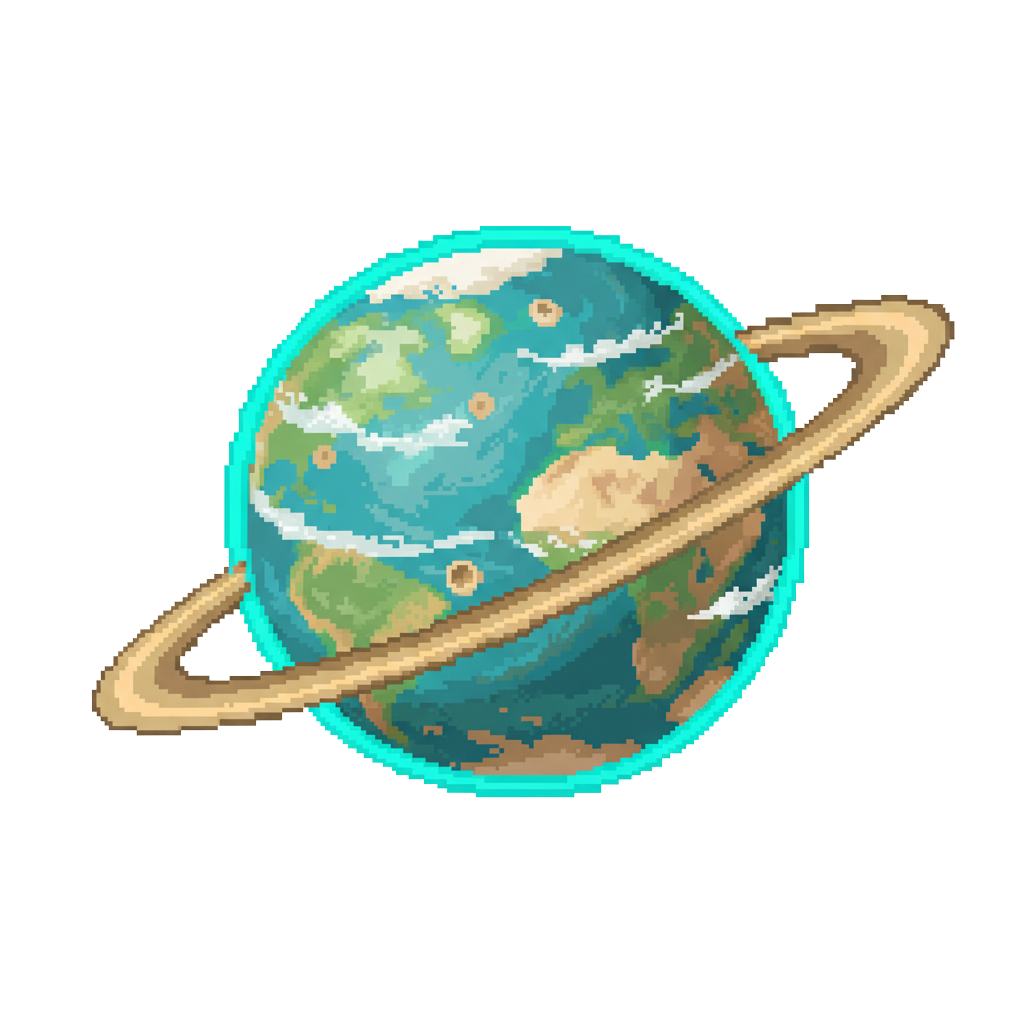
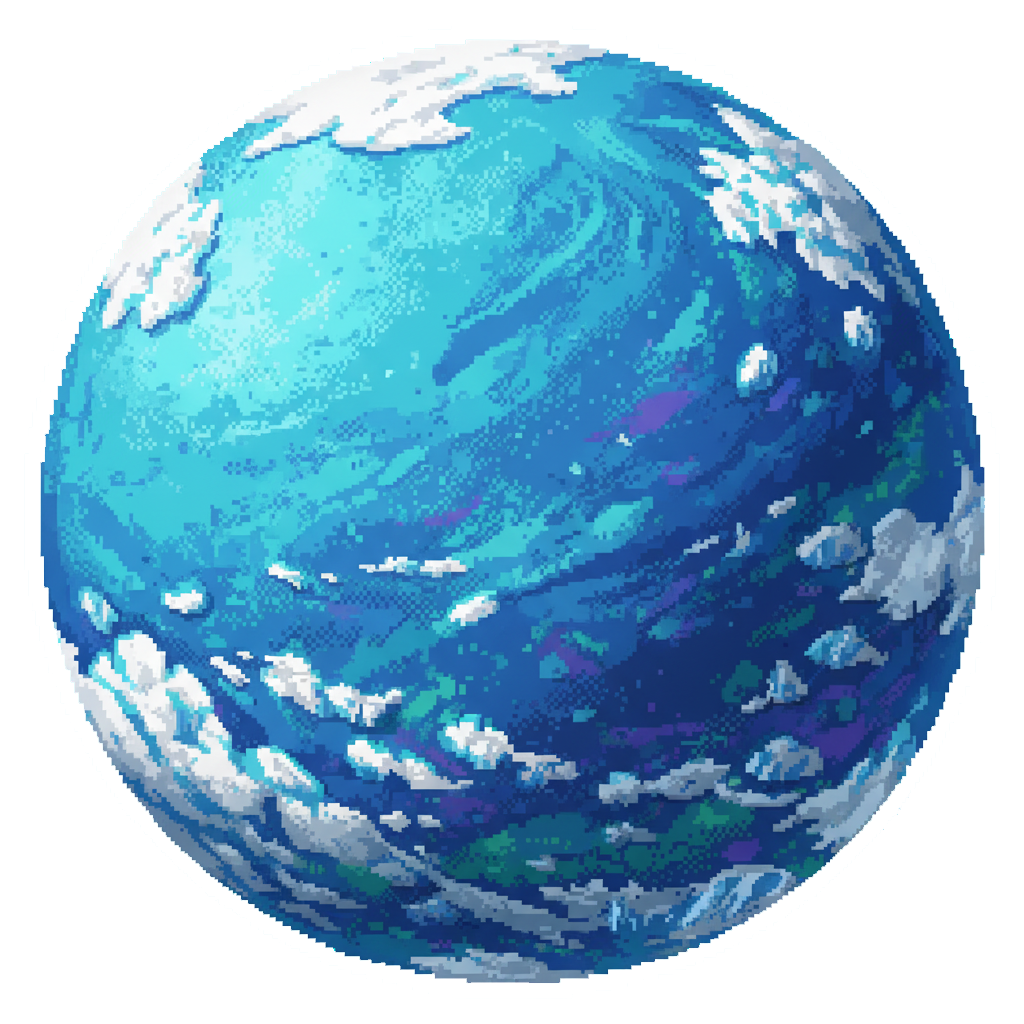
Ajustes

diff --git a/game/render/renderer.py b/game/render/renderer.py
@@ -4,7 +4,8 @@ from typing import TypedDict, Optional, TYPE_CHECKING
 from pathlib import Path
 from ..core import colors
 from ..core.config import Config
-from ..core.assets import get_font
+from ..core.assets import get_font, get_image # Added get_image
+from ..core.render_config import RenderConfig 
 
 if TYPE_CHECKING:
     from ..entities.ship import Ship
@@ -27,63 +28,88 @@ class CelestialBody(TypedDict):
 
 
 class CelestialManager:
-    def __init__(self, w: int, h: int, n: int = 2): # Changed n from 3 to 2
+    def __init__(self, w: int, h: int, n: int = RenderConfig.CELESTIAL_NUM_BODIES):
         self.w, self.h = w, h
         self.celestial_bodies: list[CelestialBody] = []
         self.image_files = self._load_image_files()
+        # Initialize the pool with 'n' celestial bodies
         for _ in range(n):
-            self.celestial_bodies.append(self._create_celestial_body())
+            self.celestial_bodies.append(self._create_and_initialize_celestial_body())
 
     def _load_image_files(self) -> list[Path]:
         image_dir = Path(__file__).resolve().parents[1] / "assets" / "images"
         return list(image_dir.glob("*.png"))
 
-    def _create_celestial_body(self, y_position: Optional[float] = None) -> CelestialBody:
-        image_path = random.choice(self.image_files)
-        original_image = pygame.image.load(image_path).convert_alpha()
+    def _generate_scaled_image(self, image_path: Path, scale: float) -> pygame.Surface:
+        """Loads, scales, and sets alpha for a celestial body image."""
+        original_image = get_image(image_path)
 
-        scale = random.uniform(0.1, 0.6) # Reduced max scale from 1.0 to 0.6
         width = int(original_image.get_width() * scale)
         height = int(original_image.get_height() * scale)
         image = pygame.transform.scale(original_image, (width, height))
 
         # Opacity based on size
-        alpha = int(50 + (scale - 0.1) * (255 - 50) / (0.6 - 0.1)) # Adjusted denominator for new max scale
+        alpha = int(RenderConfig.CELESTIAL_ALPHA_MIN + (scale - RenderConfig.CELESTIAL_SCALE_MIN) * (RenderConfig.CELESTIAL_ALPHA_MAX - RenderConfig.CELESTIAL_ALPHA_MIN) / (RenderConfig.CELESTIAL_SCALE_MAX - RenderConfig.CELESTIAL_SCALE_MIN))
         image.set_alpha(alpha)
+        return image
 
-        # Logic to ensure bodies don't spawn too close horizontally
+    def _get_random_x_position(self, width: int, current_body: Optional[CelestialBody] = None) -> float:
+        """Generates a random x-position ensuring no overlap with existing bodies."""
         new_x = 0
-        max_attempts = 10 # Prevent infinite loops
+        max_attempts = 10
         for _ in range(max_attempts):
-            new_x = random.uniform(0, self.w - width)
+            test_x = random.uniform(0, self.w - width)
             overlap = False
             for existing_body in self.celestial_bodies:
-                # Check for horizontal overlap, considering a minimum gap
-                min_gap = 50 # Minimum horizontal gap between bodies
-                if (new_x < existing_body["x"] + existing_body["image"].get_width() + min_gap and
-                    new_x + width + min_gap > existing_body["x"]):
+                if existing_body is current_body: # Don't check overlap with itself
+                    continue
+                min_gap = RenderConfig.CELESTIAL_MIN_GAP
+                if (test_x < existing_body["x"] + existing_body["image"].get_width() + min_gap and
+                    test_x + width + min_gap > existing_body["x"]):
                     overlap = True
                     break
             if not overlap:
+                new_x = test_x
                 break
-        # If after max_attempts, still overlaps, just use the last generated new_x (it's rare with n=2)
+        return new_x
 
+    def _create_and_initialize_celestial_body(self, y_position: Optional[float] = None) -> CelestialBody:
+        """Creates a new celestial body and initializes its properties."""
+        image_path = random.choice(self.image_files)
+        
+        scale = random.uniform(RenderConfig.CELESTIAL_SCALE_MIN, RenderConfig.CELESTIAL_SCALE_MAX)
+        image = self._generate_scaled_image(image_path, scale)
 
-        return {
+        x = self._get_random_x_position(image.get_width())
+
+        body: CelestialBody = {
             "image": image,
-            "x": new_x,
+            "x": x,
             "y": y_position if y_position is not None else random.uniform(0, self.h),
-            "speed": random.uniform(50, 150) * scale + 20,
+            "speed": random.uniform(RenderConfig.CELESTIAL_SPEED_BASE_MIN, RenderConfig.CELESTIAL_SPEED_BASE_MAX) * scale + RenderConfig.CELESTIAL_SPEED_OFFSET,
             "scale": scale,
         }
+        return body
+
+    def _reset_celestial_body(self, body: CelestialBody, y_position: Optional[float] = None):
+        """Resets the properties of an existing celestial body."""
+        image_path = random.choice(self.image_files)
+        
+        scale = random.uniform(RenderConfig.CELESTIAL_SCALE_MIN, RenderConfig.CELESTIAL_SCALE_MAX)
+        image = self._generate_scaled_image(image_path, scale)
+
+        body["image"] = image
+        body["x"] = self._get_random_x_position(image.get_width(), current_body=body) # Pass current_body for overlap check
+        body["y"] = y_position if y_position is not None else random.uniform(0, self.h)
+        body["speed"] = random.uniform(RenderConfig.CELESTIAL_SPEED_BASE_MIN, RenderConfig.CELESTIAL_SPEED_BASE_MAX) * scale + RenderConfig.CELESTIAL_SPEED_OFFSET
+        body["scale"] = scale
 
     def update(self, dt: float, speed_multiplier: float = 1.0):
         for body in self.celestial_bodies:
             body["y"] += body["speed"] * dt * speed_multiplier
             if body["y"] > self.h:
-                index = self.celestial_bodies.index(body)
-                # Ensure objects start further above the screen to prevent "pop" effect
-                self.celestial_bodies[index] = self._create_celestial_body(y_position=random.uniform(-self.h * 1.5, -self.h * 0.5))
+                # Reset the existing body instead of creating a new one
+                self._reset_celestial_body(body, y_position=random.uniform(self.h * RenderConfig.CELESTIAL_RESET_Y_MIN_MULTIPLIER, self.h * RenderConfig.CELESTIAL_RESET_Y_MAX_MULTIPLIER))
 
     def draw(self, surface: pygame.Surface):
         for body in self.celestial_bodies:
@@ -91,27 +117,37 @@ class CelestialManager:
 
 
 class StarField:
-    def __init__(self, w: int, h: int, n: int = 60):
+    def __init__(self, w: int, h: int, n: int = RenderConfig.STARFIELD_NUM_STARS):
         self.w, self.h = w, h
         self.stars: list[Star] = []
+        # Initialize the pool with 'n' stars
         for _ in range(n):
-            self.stars.append(
-                {
-                    "x": random.randint(0, w),
-                    "y": random.randint(0, h),
-                    "speed": random.uniform(30, 150),  # px/s
-                    "size": random.choice([1, 1, 2, 3]),
-                    "brightness": random.randint(120, 255),
-                }
-            )
+            self.stars.append(self._create_and_initialize_star())
+
+    def _create_and_initialize_star(self) -> Star:
+        """Creates and initializes a new star."""
+        return Star({
+            "x": random.randint(0, self.w),
+            "y": random.randint(0, self.h),
+            "speed": random.uniform(RenderConfig.STARFIELD_SPEED_MIN, RenderConfig.STARFIELD_SPEED_MAX),
+            "size": random.choice([1, 1, 2, 3]),
+            "brightness": random.randint(RenderConfig.STARFIELD_BRIGHTNESS_MIN, RenderConfig.STARFIELD_BRIGHTNESS_MAX),
+        })
+
+    def _reset_star(self, star: Star):
+        """Resets the properties of an existing star."""
+        star["x"] = random.randint(0, self.w)
+        star["y"] = -star["size"]  # Start above the screen
+        star["speed"] = random.uniform(RenderConfig.STARFIELD_SPEED_MIN, RenderConfig.STARFIELD_SPEED_MAX)
+        star["size"] = random.choice([1, 1, 2, 3])
+        star["brightness"] = random.randint(RenderConfig.STARFIELD_BRIGHTNESS_MIN, RenderConfig.STARFIELD_BRIGHTNESS_MAX)
 
     def update(self, dt: float, speed_multiplier: float = 1.0):
         for s in self.stars:
             s["y"] += s["speed"] * dt * speed_multiplier
             if s["y"] > self.h:
-                # Reposicionar estrela no topo (acima da tela)
-                s["y"] = -s["size"]  # Começa logo acima da tela
-                s["x"] = random.randint(0, self.w)
+                # Reset the existing star instead of creating a new one
+                self._reset_star(s)
 
     def draw(self, surface: pygame.Surface):
         for s in self.stars:
@@ -125,7 +161,7 @@ class Renderer:
         self.font_medium = get_font(24)
         self.font_large = get_font(32)
         self.starfield = StarField(Config.SCREEN_WIDTH, Config.SCREEN_HEIGHT)
-        self.celestial_manager = CelestialManager(Config.SCREEN_WIDTH, Config.SCREEN_HEIGHT, n=2)
+        self.celestial_manager = CelestialManager(Config.SCREEN_WIDTH, Config.SCREEN_HEIGHT, n=RenderConfig.CELESTIAL_NUM_BODIES)
 
     def background(
         self, surface: pygame.Surface, dt: float, speed_multiplier: float = 1.0
@@ -165,9 +201,9 @@ class Renderer:
                 surface.blit(t, (10, y))
                 y += 18
 
-            invuln_s = getattr(ship, "invuln", 0) / 1000.0
-            ds_s = getattr(ship, "double_shot_timer", 0)
-            sp_s = getattr(ship, "speed_boost_timer", 0)
+            invuln_s = ship.get_invulnerable_time()
+            ds_s = ship.get_double_shot_time()
+            sp_s = ship.get_speed_boost_time()
 
             if invuln_s > 0:
                 line(f"[S] Escudo: {invuln_s:.1f}s", colors.BLUE)
@@ -207,8 +243,7 @@ class Renderer:
 
     def effects_on_ship(self, surface: pygame.Surface, ship: "Ship"):
         """Desenha efeitos visuais na nave (ex.: halo de escudo)."""
-        invuln = getattr(ship, "invuln", 0)
-        if invuln > 0:
+        if ship.is_invulnerable:
             cx = int(ship.x + ship.w / 2)
             cy = int(ship.y + ship.h / 2)
             radius = max(ship.w, ship.h) // 2 + 6
@@ -218,3 +253,4 @@ class Renderer:
                 halo, (0, 120, 255, 120), (radius + 3, radius + 3), radius, width=3
             )
             surface.blit(halo, (cx - radius - 3, cy - radius - 3))
+

diff --git a/game/core/assets.py b/game/core/assets.py
@@ -21,12 +21,38 @@ def get_font(size: int, path: str | Path | None = None) -> pygame.font.Font:
         return pygame.font.Font(None, size)
 
 
+@lru_cache(maxsize=128)
+def get_image(path: str | Path, alpha: bool = True) -> pygame.Surface:
+    """
+    Carrega e retorna uma imagem, com cache para evitar recarregar a mesma imagem.
+    Converte a imagem para ter um canal alpha se 'alpha' for True.
+    Retorna uma Surface vazia em caso de erro.
+    """
+    image_path = Path(path)
+    try:
+        image = pygame.image.load(str(image_path))
+        if alpha:
+            return image.convert_alpha()
+        else:
+            return image.convert()
+    except pygame.error as e:
+        print(f"❌ Erro ao carregar imagem {image_path}: {e}")
+        # Retorna uma Surface vazia em caso de erro de carregamento
+        return pygame.Surface((1, 1), pygame.SRCALPHA)
+    except FileNotFoundError:
+        print(f"⚠ Imagem não encontrada: {image_path}")
+        return pygame.Surface((1, 1), pygame.SRCALPHA)
+    except Exception as e:
+        print(f"❌ Erro inesperado ao carregar imagem {image_path}: {e}")
+        return pygame.Surface((1, 1), pygame.SRCALPHA)
+
+
 def load_custom_cursor() -> None:
     """Carrega o cursor customizado em pixel art."""
     try:
         if CURSOR_PATH.exists():
             # Carregar a imagem do cursor
-            cursor_image = pygame.image.load(str(CURSOR_PATH))
+            cursor_image = get_image(CURSOR_PATH) # Using the new get_image function
             # O cursor já está no tamanho correto (36x36)
             # Definir o cursor (hotspot no centro)
             hotspot = (cursor_image.get_width() // 2, cursor_image.get_height() // 2)
@@ -36,3 +62,4 @@ def load_custom_cursor() -> None:
             print(f"⚠ Cursor não encontrado em {CURSOR_PATH}")
     except Exception as e:
         print(f"❌ Erro ao carregar cursor: {e}")
+

diff --git a/game/entities/ship.py b/game/entities/ship.py
@@ -64,6 +64,27 @@ class Ship:
     def rect(self) -> pygame.Rect:
         return pygame.Rect(int(self.x), int(self.y), self.w, self.h)
 
+    @property
+    def is_invulnerable(self) -> bool:
+        return self.invuln > 0
+
+    def get_invulnerable_time(self) -> float:
+        return self.invuln / 1000.0
+
+    @property
+    def is_double_shot_active(self) -> bool:
+        return self.double_shot_timer > 0.0
+
+    def get_double_shot_time(self) -> float:
+        return self.double_shot_timer
+
+    @property
+    def is_speed_boost_active(self) -> bool:
+        return self.speed_boost_timer > 0.0
+
+    def get_speed_boost_time(self) -> float:
+        return self.speed_boost_timer
+
     def update(self, dt: float):
         if self.invuln > 0:
             self.invuln = max(0, self.invuln - dt * 1000)

diff --git a/game/core/render_config.py b/game/core/render_config.py
@@ -1,0 +1,22 @@
+# game/core/render_config.py
+
+class RenderConfig:
+    # Celestial Manager configurations
+    CELESTIAL_NUM_BODIES = 2
+    CELESTIAL_SCALE_MIN = 0.1
+    CELESTIAL_SCALE_MAX = 0.6
+    CELESTIAL_ALPHA_MIN = 50
+    CELESTIAL_ALPHA_MAX = 255
+    CELESTIAL_SPEED_BASE_MIN = 50
+    CELESTIAL_SPEED_BASE_MAX = 150
+    CELESTIAL_SPEED_OFFSET = 20
+    CELESTIAL_RESET_Y_MIN_MULTIPLIER = -1.5
+    CELESTIAL_RESET_Y_MAX_MULTIPLIER = -0.5
+    CELESTIAL_MIN_GAP = 50 # Minimum horizontal gap between celestial bodies
+
+    # Starfield configurations
+    STARFIELD_NUM_STARS = 60
+    STARFIELD_SPEED_MIN = 30
+    STARFIELD_SPEED_MAX = 150
+    STARFIELD_BRIGHTNESS_MIN = 120
+    STARFIELD_BRIGHTNESS_MAX = 255

diff --git a/game/app.py b/game/app.py
@@ -11,9 +11,6 @@ class GameApp:
     def __init__(self):
         pygame.init()
 
-        # Carregar cursor customizado
-        load_custom_cursor()
-
         # Detectar resolução do monitor se estiver em fullscreen
         if Config.FULLSCREEN:
             # Obter informações do display
@@ -35,6 +32,9 @@ class GameApp:
         # Criar display com fullscreen se ativado
         flags = pygame.FULLSCREEN if Config.FULLSCREEN else 0
         self.screen = pygame.display.set_mode((screen_width, screen_height), flags)
+
+        # Carregar cursor customizado
+        load_custom_cursor()
 
         pygame.display.set_caption("Space Shooter")
         self.clock = pygame.time.Clock()
